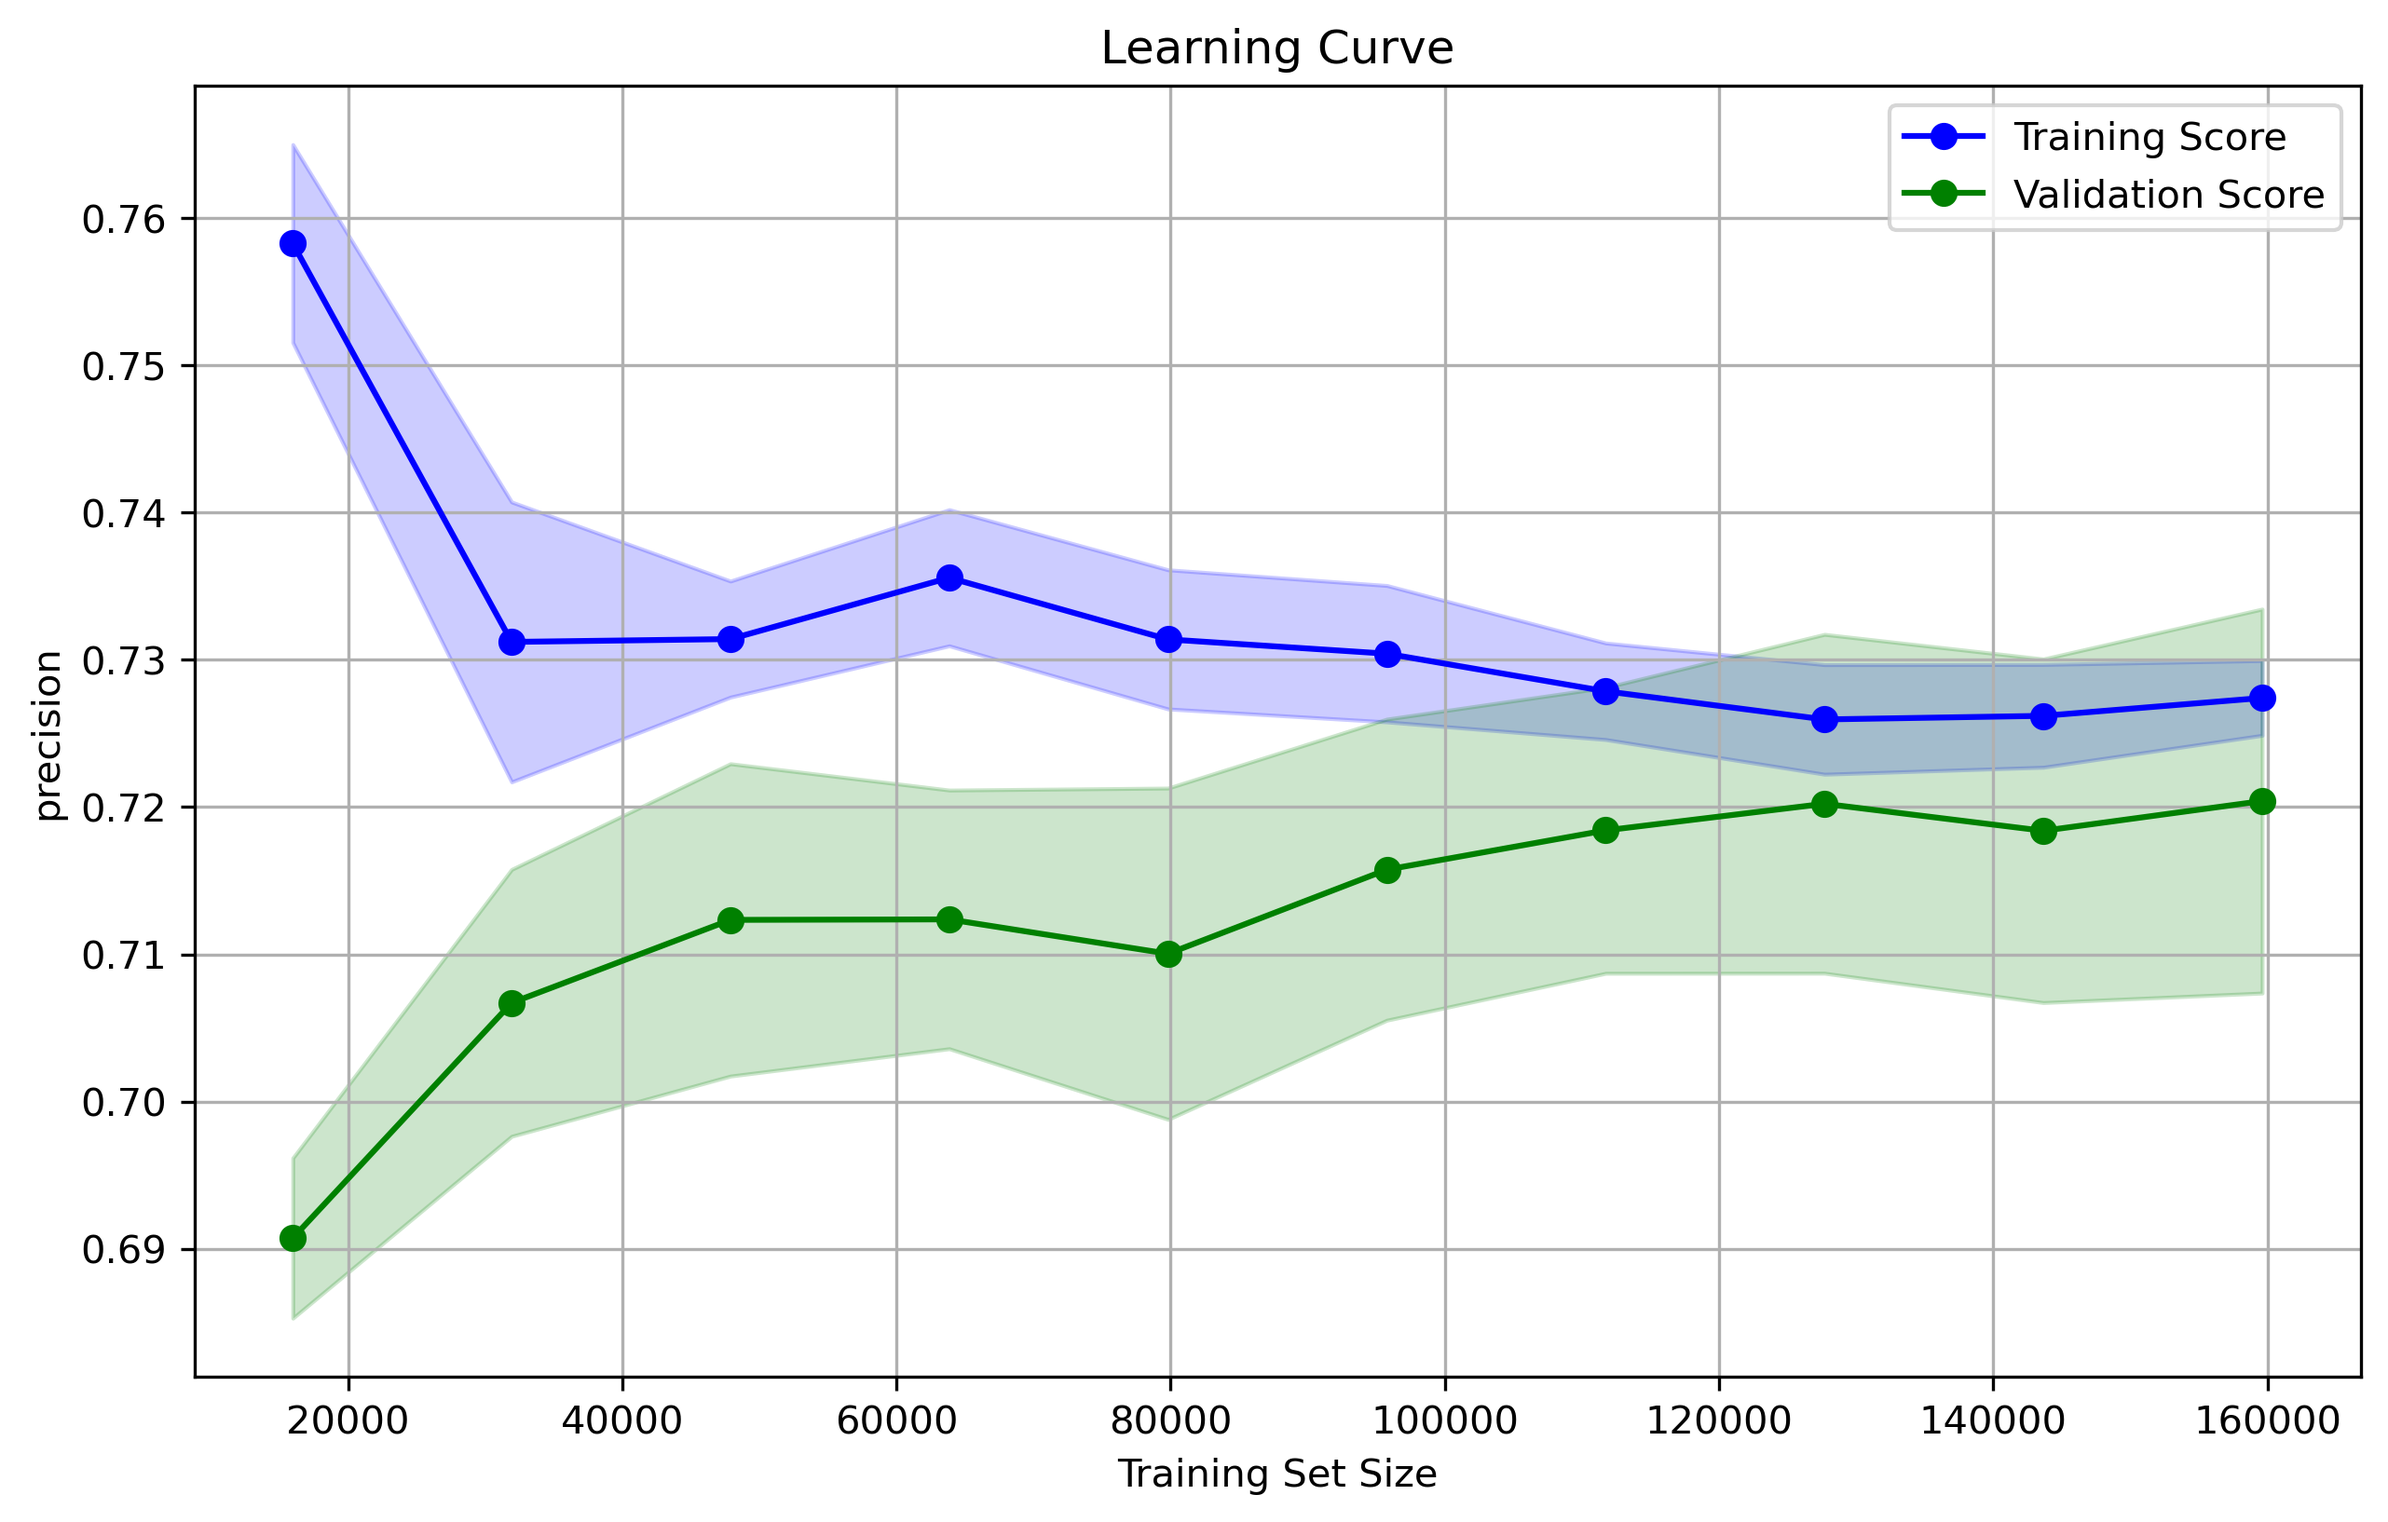
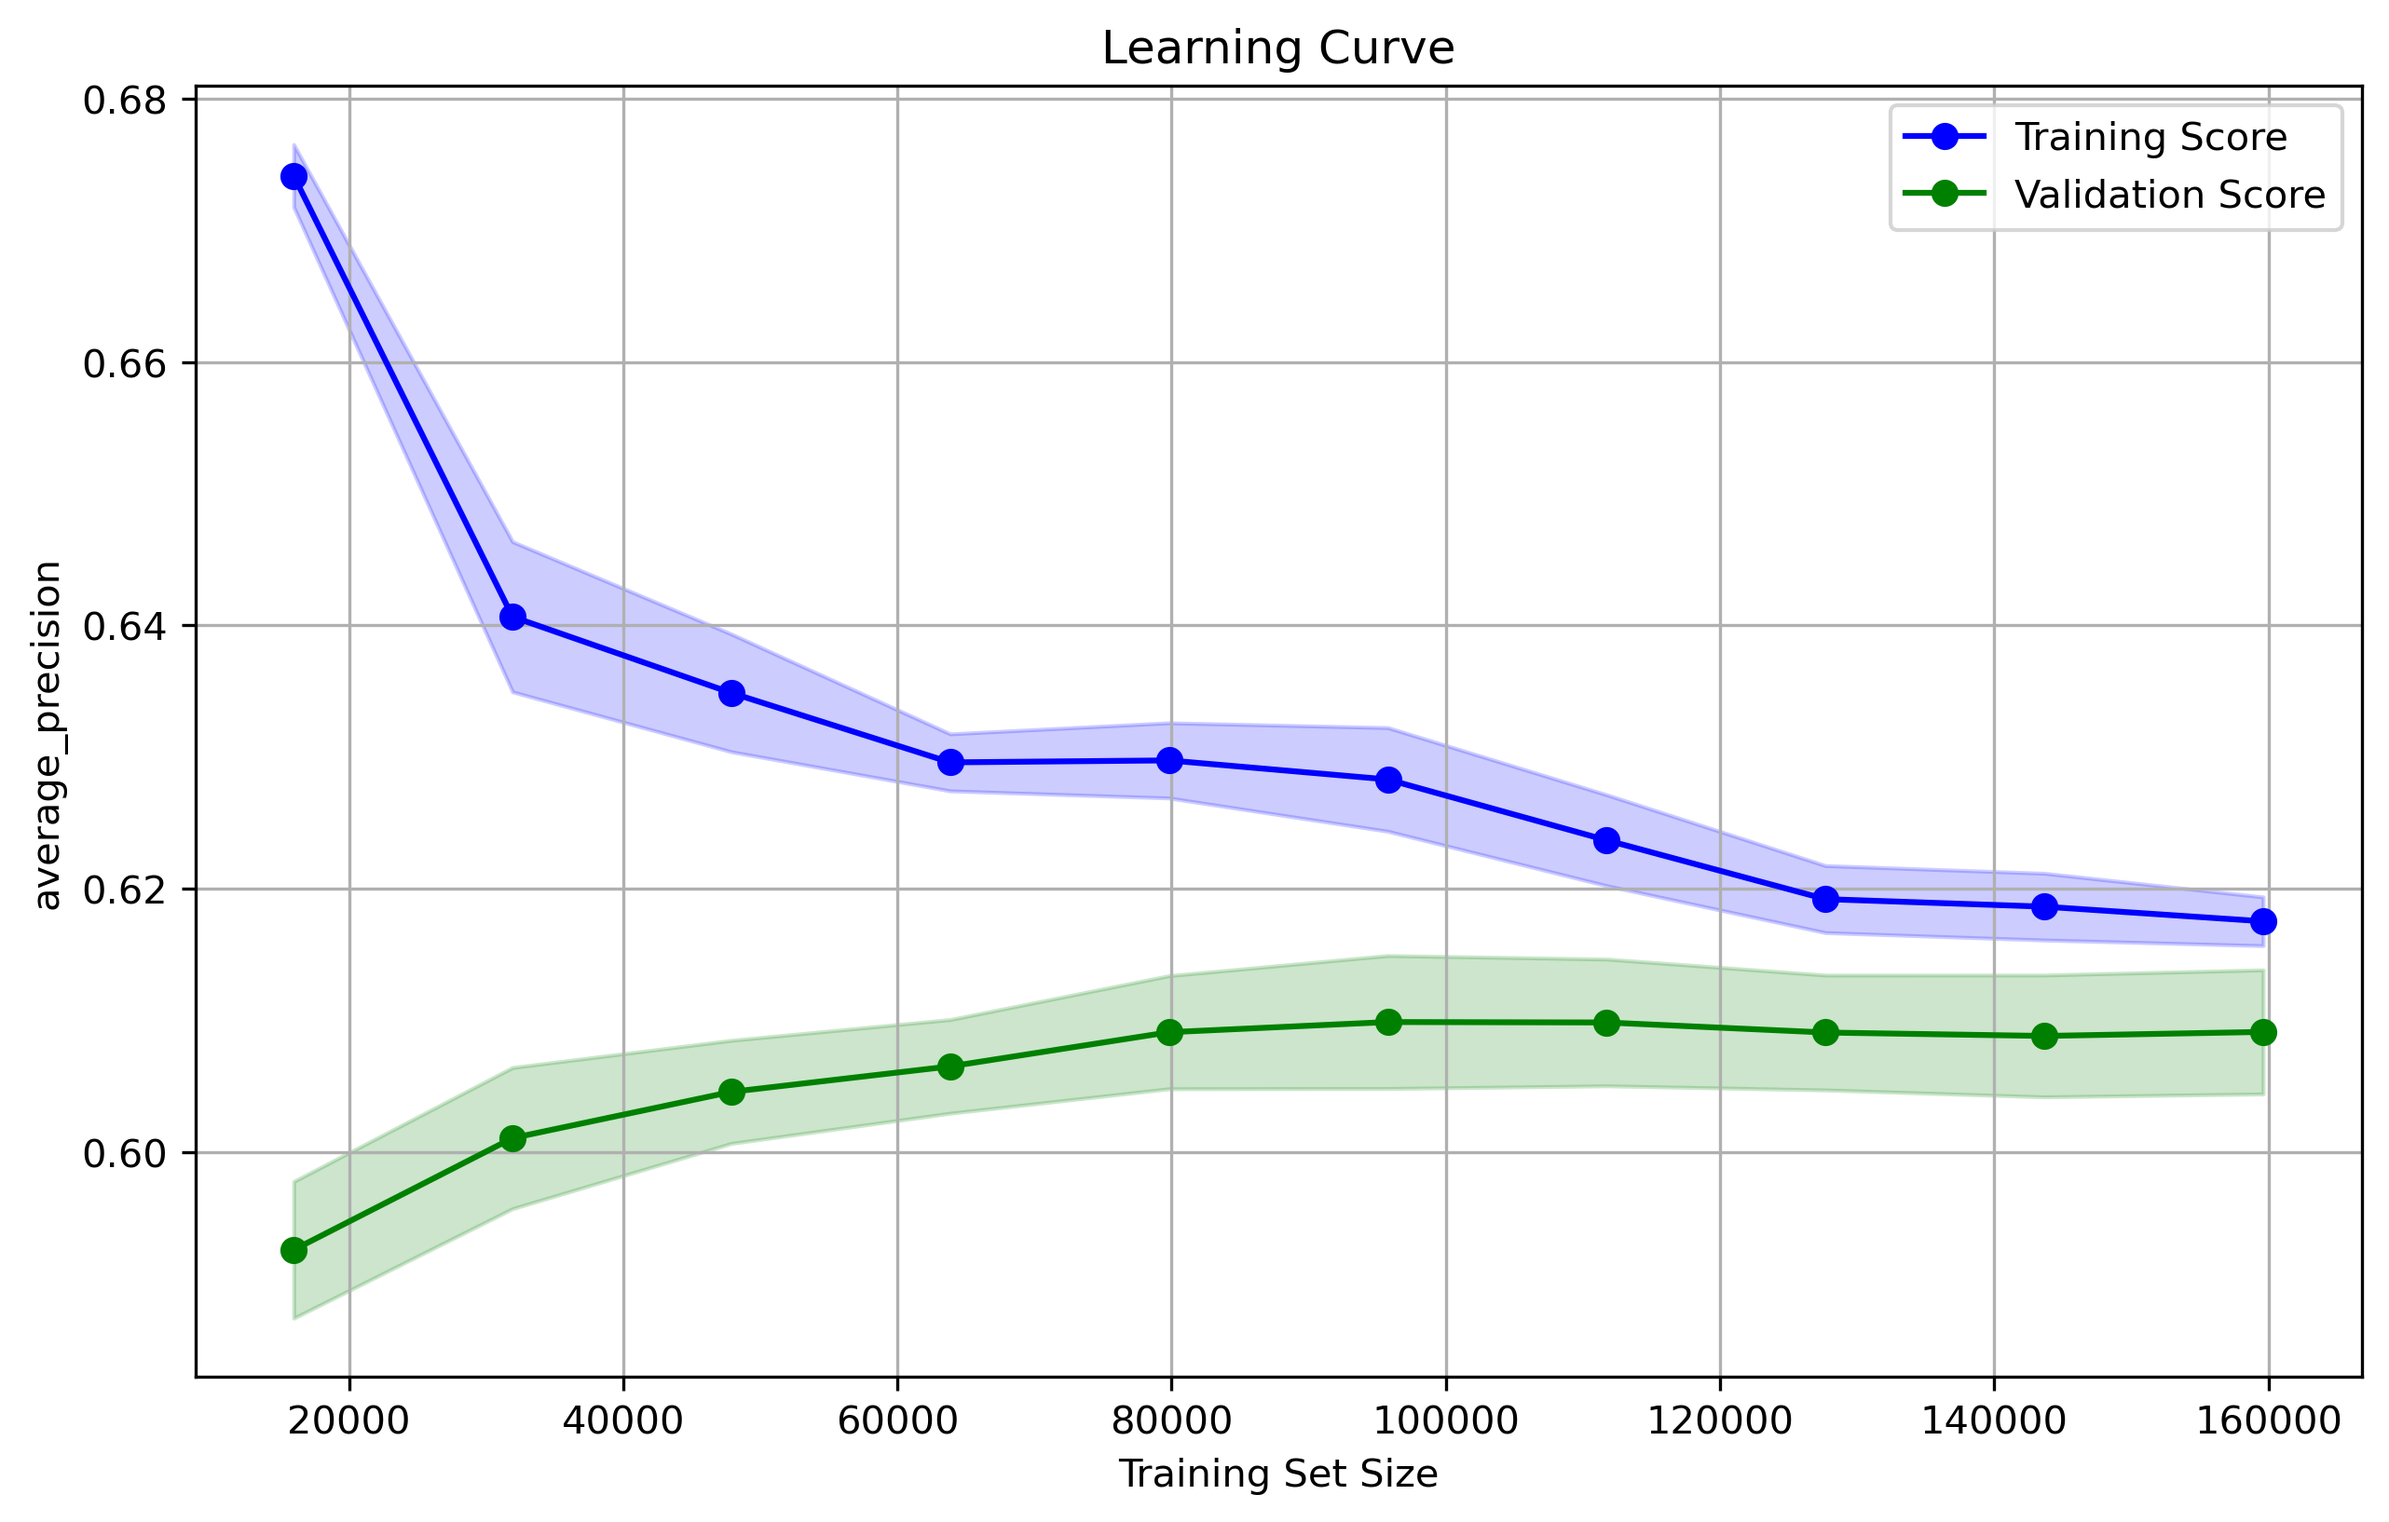
Switching to average precision.

diff --git a/code/etch.py b/code/etch.py
@@ -260,57 +260,56 @@ def create_census_preprocessor(scalers, ones):
     )
 
 
-def create_census_pipeline(estimator, transformer=None):
-    # This file is all about the hard coding.
-    scalers = [
-        "age",
-        "wage per hour",
-        "capital gains",
-        "capital losses",
-        "dividends from stocks",
-        "num persons worked for employer",
-        "weeks worked in year"
-    ]
+# This file is all about the hard coding.
+census_quantitative = [
+    "age",
+    "wage per hour",
+    "capital gains",
+    "capital losses",
+    "dividends from stocks",
+    "num persons worked for employer",
+    "weeks worked in year"
+]
 
-    ones = [
-        'class of worker',
-        'detailed industry recode',
-        'detailed occupation recode',
-        # 'education',
-        'enroll in edu inst last wk',
-        'marital stat',
-        'major industry code',
-        'major occupation code',
-        'race',
-        'hispanic origin',
-        'sex',
-        'member of a labor union',
-        'reason for unemployment',
-        'full or part time employment stat',
-        'tax filer stat',
-        'region of previous residence',
-        'state of previous residence',
-        'detailed household and family stat',
-        'detailed household summary in household',
-        'migration code-change in msa',
-        'migration code-change in reg',
-        'migration code-move within reg',
-        'live in this house 1 year ago',
-        'migration prev res in sunbelt',
-        'family members under 18',
-        'country of birth father',
-        'country of birth mother',
-        'country of birth self',
-        'citizenship',
-        'own business or self employed',
-        "fill inc questionnaire for veteran's admin",
-        'veterans benefits',
-        'year'
-    ]
+census_qualitative = [
+    'class of worker',
+    'detailed industry recode',
+    'detailed occupation recode',
+    'enroll in edu inst last wk',
+    'marital stat',
+    'major industry code',
+    'major occupation code',
+    'race',
+    'hispanic origin',
+    'sex',
+    'member of a labor union',
+    'reason for unemployment',
+    'full or part time employment stat',
+    'tax filer stat',
+    'region of previous residence',
+    'state of previous residence',
+    'detailed household and family stat',
+    'detailed household summary in household',
+    'migration code-change in msa',
+    'migration code-change in reg',
+    'migration code-move within reg',
+    'live in this house 1 year ago',
+    'migration prev res in sunbelt',
+    'family members under 18',
+    'country of birth father',
+    'country of birth mother',
+    'country of birth self',
+    'citizenship',
+    'own business or self employed',
+    "fill inc questionnaire for veteran's admin",
+    'veterans benefits',
+    'year'
+]
 
+def create_census_pipeline(estimator, quantitative=census_quantitative, qualitative=census_qualitative, transformer=None):
     return Pipeline(
         steps=[
-                ('preprocessor', transformer if transformer else create_census_preprocessor(scalers, ones)),
+                ('preprocessor', transformer if transformer else create_census_preprocessor(quantitative, qualitative)),
                 ('estimator', estimator)
         ]
     )
@@ -323,13 +322,13 @@ def create_resample_pipeline(estimator, sampler):
     ])
 
 
-def teska(estimator, census, sampler=None):
+def teska(estimator, census, sampler=None, transformer=None):
     encoder = LabelEncoder()
     y_train_encoded = encoder.fit_transform(census.y_train)
     y_test_encoded = encoder.transform(census.y_test)
 
     classifier = estimator
-    census_pipeline = create_census_pipeline(classifier)
+    census_pipeline = create_census_pipeline(classifier, transformer=transformer)
     pipeline = census_pipeline
     if sampler:
         resample_pipeline = create_resample_pipeline(census_pipeline, sampler)
@@ -353,6 +352,45 @@ def ys(y, y_probabilities, threshold=0.5):
     y_predictions = (y_probabilities[:, 1] >= threshold).astype(int)
     print(classification_report(y, y_predictions))
     print(confusion_matrix(y, y_predictions))
+
+
+def plot_learning_curve(estimator, X, y, n_splits=5, random_state=42, scoring='f1', save_path=None):
+    cv = StratifiedKFold(n_splits=n_splits, shuffle=True, random_state=random_state)
+
+    train_sizes, train_scores, val_scores = learning_curve(
+        estimator, X, y, cv=cv, n_jobs=-1, train_sizes=np.linspace(0.1, 1.0, 10), scoring=scoring
+    )
+
+    train_mean = np.mean(train_scores, axis=1)
+    train_std = np.std(train_scores, axis=1)
+    val_mean = np.mean(val_scores, axis=1)
+    val_std = np.std(val_scores, axis=1)
+
+    plt.figure(figsize=(10, 6))
+    plt.plot(train_sizes, train_mean, label='Training Score', color='blue', marker='o')
+    plt.plot(train_sizes, val_mean, label='Validation Score', color='green', marker='o')
+
+    plt.fill_between(train_sizes, train_mean - train_std, train_mean + train_std, color='blue', alpha=0.2)
+    plt.fill_between(train_sizes, val_mean - val_std, val_mean + val_std, color='green', alpha=0.2)
+
+    plt.title('Learning Curve')
+    plt.xlabel('Training Set Size')
+    if isinstance(scoring, str):
+        plt.ylabel(scoring)
+    plt.legend(loc='best')
+    plt.grid(True)
+    if save_path:
+        plt.savefig(save_path, dpi=300, bbox_inches='tight')
+    plt.show()
+
+
+def scale_target_transform(quantitative, qualitative, random_state=42):
+    return ColumnTransformer(
+        transformers = [
+            ('quantitative', StandardScaler(), quantitative),
+            ('qualitative', TargetEncoder(random_state=42), qualitative)
+        ]
+    )
 
 
 # No time to work on this :)
@@ -387,33 +425,3 @@ class SelectFromCollection():
         if self.onscreen:
             self.onscreen(self.ind) 
         self.canvas.draw_idle()
-
-
-def plot_learning_curve(estimator, X, y, n_splits=5, random_state=42, scoring='f1', save_path=None):
-    cv = StratifiedKFold(n_splits=n_splits, shuffle=True, random_state=random_state)
-
-    train_sizes, train_scores, val_scores = learning_curve(
-        estimator, X, y, cv=cv, n_jobs=-1, train_sizes=np.linspace(0.1, 1.0, 10), scoring=scoring
-    )
-
-    train_mean = np.mean(train_scores, axis=1)
-    train_std = np.std(train_scores, axis=1)
-    val_mean = np.mean(val_scores, axis=1)
-    val_std = np.std(val_scores, axis=1)
-
-    plt.figure(figsize=(10, 6))
-    plt.plot(train_sizes, train_mean, label='Training Score', color='blue', marker='o')
-    plt.plot(train_sizes, val_mean, label='Validation Score', color='green', marker='o')
-
-    plt.fill_between(train_sizes, train_mean - train_std, train_mean + train_std, color='blue', alpha=0.2)
-    plt.fill_between(train_sizes, val_mean - val_std, val_mean + val_std, color='green', alpha=0.2)
-
-    plt.title('Learning Curve')
-    plt.xlabel('Training Set Size')
-    if isinstance(scoring, str):
-        plt.ylabel(scoring)
-    plt.legend(loc='best')
-    plt.grid(True)
-    if save_path:
-        plt.savefig(save_path, dpi=300, bbox_inches='tight')
-    plt.show()
